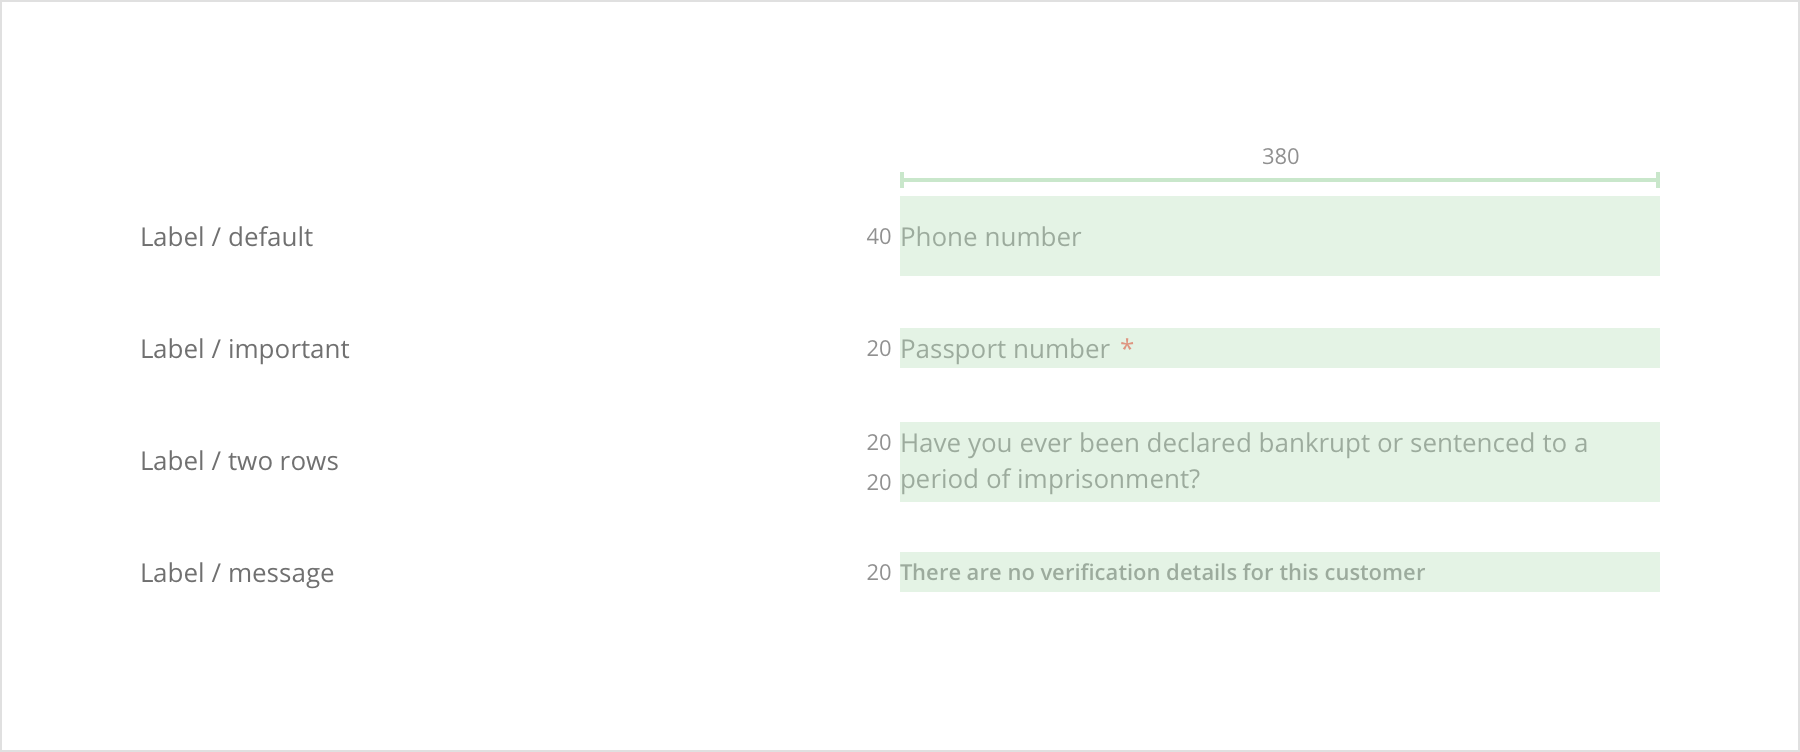
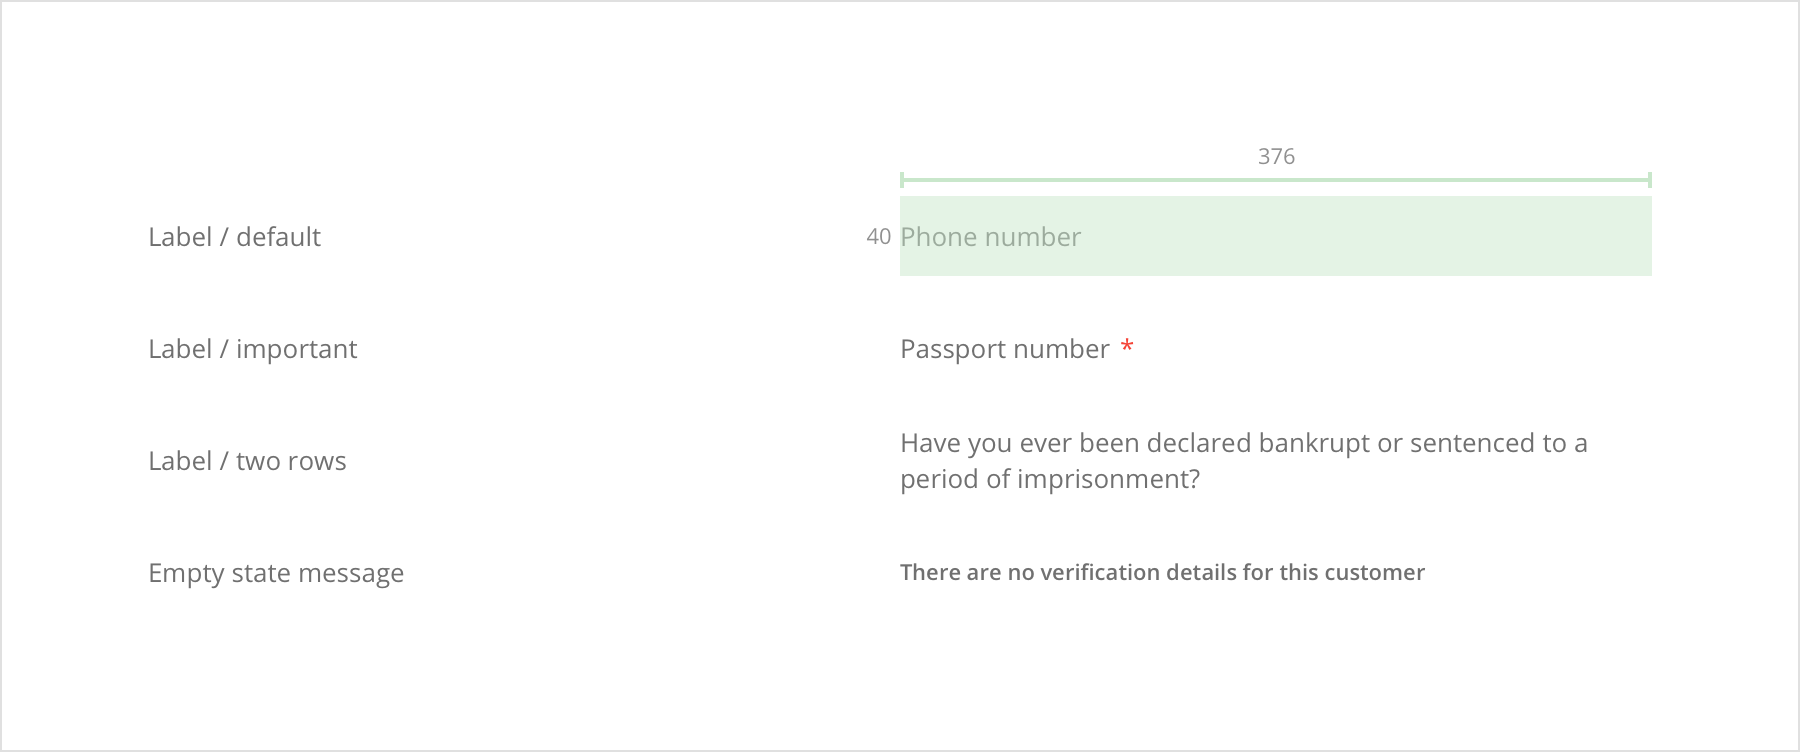
Updates organisms/forms.md
Auto commit by GitBook Editor

diff --git a/organisms/forms.md b/organisms/forms.md
@@ -50,7 +50,7 @@ Labels are used inline before all text inputs, text areas, dropdowns and rest of
 ![](/assets/organisms/forms-labels-sizing.png)
 
 ```
-/* Label section */
+/* Label base */
 width: 380px;
 height: 40px;
 
@@ -64,10 +64,7 @@ color: $B200;
 /* Label / important / asterisk */
 color: $R300;
 
-/* Label / two rows */
-/* Same as Label / default */
-
-/* Label / message */
+/* Empty state message */
 font-weight: Semibold;
 font-size: 11px;
 color: $B200;
